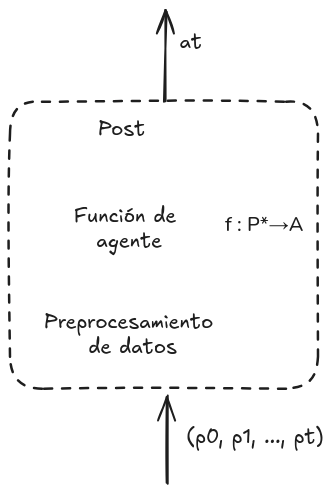
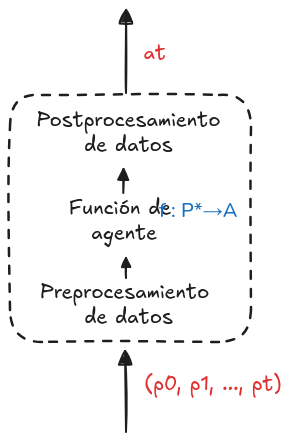
Cambios en las notas basandome en el libro "Artificial Intelligence A Modern Approach 4th Edition", ligeros cambios en el README y en una imagen para que se vea mejor.

Changed region(s): [[0.0, 0.0, 0.9897, 1.0], [0.1237, 0.5882, 0.7113, 0.7353]]

diff --git a/notas/semana1.md b/notas/semana1.md
@@ -6,7 +6,7 @@ Se plantea un ***entorno***, el cual tiene un cierto *estado*, el ***agente*** b
 
 > A cada instante en el tiempo se le asigna un estado, acción y percepción.
 
-![](../imagenes/1algo.png)
+![](../imagenes/1modelo.png)
 
 ### Ejemplo
 
@@ -36,19 +36,37 @@ Como ejemplo de juguete, se tiene un robot roomba limpia suelos encargado de lim
 * ***Discreto / continuo***  
   Un entorno es **discreto** cuando los *subespacios* son discretos, como en el ejemplo de juguete.   
 Un entorno es **continuo** cuando los subespacios son continuos, por ejemplo con números reales.
-> No estoy seguro como definir subespacio.
 
 * ***Estático / Dinámico***  
+Si el entorno puede cambiar cuando un agente está tomando una decisión entonces el entorno es **dinámico** para dicho agente, en otro caso si el agente se puede tomar todo el tiempo del mundo es **estático**. 
+
+>Cuando el transcurso del tiempo no cambia el entorno pero si la utilidad del agente entonces se le llama *semidinámico*.
+
   Un entorno es **estático** cuando el estado del entorno depende solo de las acciones del agente, en otro caso es **Dinámico**.
 
 * ***Observable / Parcialmente Observable***  
+Un entorno es **observable** cuando el agente tiene acceso completo al estado del entorno en todo momento, si no se tiene acceso se le llama *inobservable*, en otro caso es **parcialmente observable**.
+
 * ***Determinista / Estocástico***  
-* ***Conocido / Desconocido***
-* ***Un agente / Multiagente***
-* ***Episódico / Secuencial***
+  Un entorno es **determinista** cuando el estado del entorno depende solo de las acciones del agente y el estado del entorno, en otro caso es **estocástico**. 
+ > Cabe mencionar que hay casos en los que se puede preferir hacer un modelo estocástico aunque éste sea determinista por que es menos trabajoso o por ignorancia.
 
-### Por hacer
 
-Un agente recibe como entrada **percepciones** y devuelve como salida una **acción**.
+* ***Conocido / Desconocido***  
+Un entorno es **conocido** cuando el agente sabe las consecuencias o posibles consecuencias de realizar una acción, en otro caso es **desconocido**.
+
+* ***Un agente / Multiagente***  
+Cuando se involucran más de un agente se le llama **multiagente**, si es solo uno es de **un agente**.
+
+* ***Episódico / Secuencial***  
+Un entorno **episódico** se divide en episodios, en cada episodio el agente recibe una percepción y realiza una acción, las acciones de un episodio no dependen de las acciones anteriores.  
+Por otro lado en un entorno **secuencial** las acciones pueden afectar acciones futuras.
+
+
+### Función de agente
+
+Un agente recibe como entrada **percepciones**, hasta un cierto tiempo, y devuelve como salida una **acción**.
+
+> En la práctica el preprocesamiento y postprocesamiento de datos es lo más tardado.
 
 ![](../imagenes/1agente.png)

diff --git a/README.md b/README.md
@@ -2,10 +2,9 @@
 
 
 ## Descripción
-Notas semanales para la clase de inteligencia artificial del semestre 2025-1.
+Notas personales para la clase de inteligencia artificial del semestre 2025-1.
 
 En el directorio `notas` se encuentran archivos de markdown de las notas de clase organizados por semana.
 
- 
 ## Autor
 Manuel Búsani Yanes
